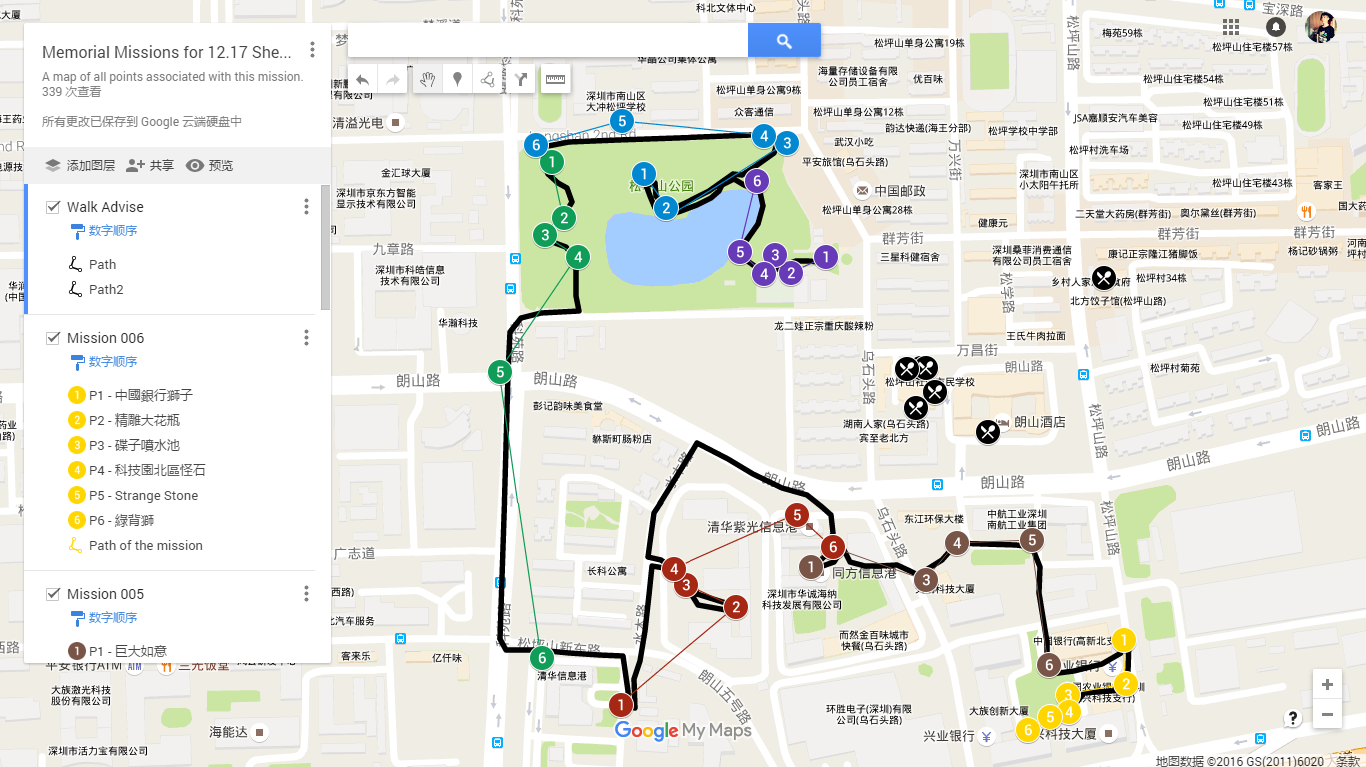
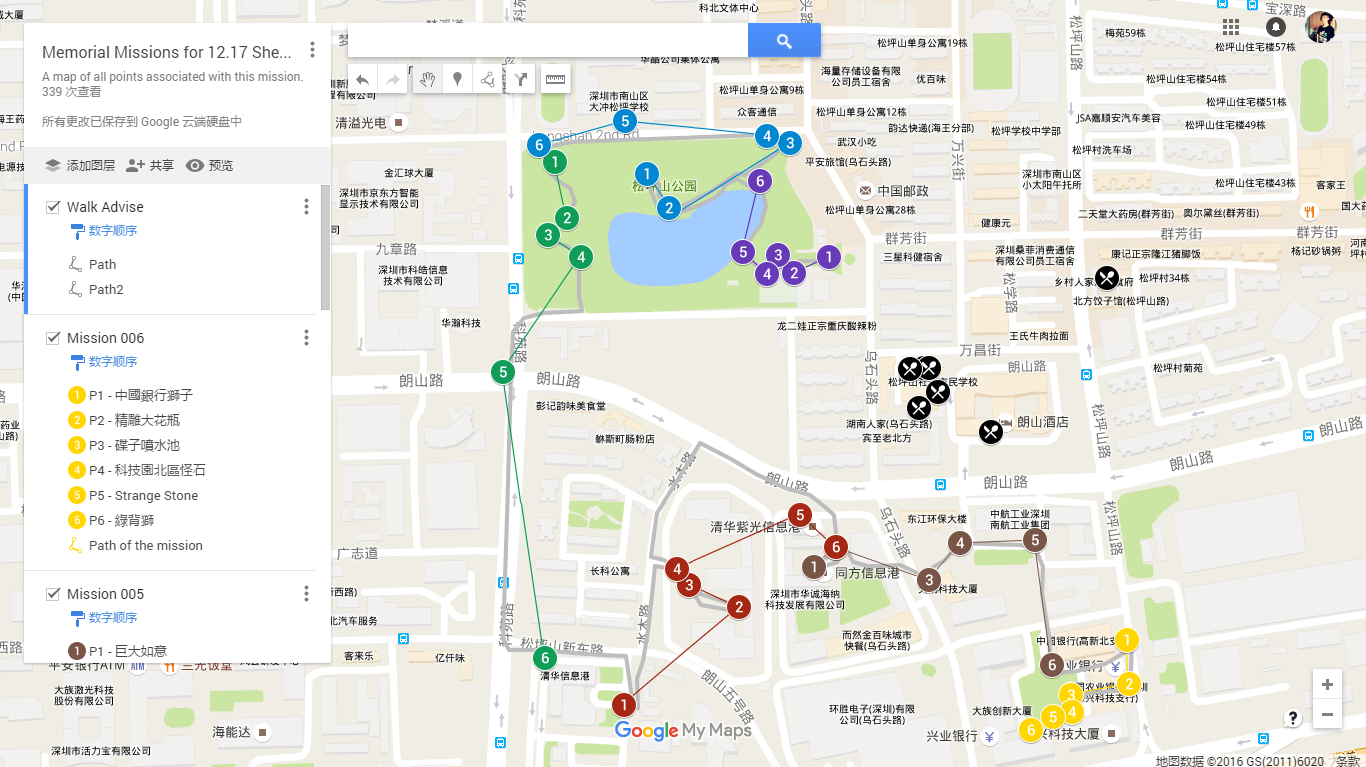
update
Former-commit-id: 97c09610a44800d876f23f53ed63390d545fa8f4
Former-commit-id: 6284c0b6b8ebc809408de0e5b86f65518fcc285b

diff --git a/post/1217_mission_of_shenzhen/1217_mission_of_shenzhen.md b/post/1217_mission_of_shenzhen/1217_mission_of_shenzhen.md
@@ -31,7 +31,7 @@ Though it was a region of villages gathering sort of fishers yesterday, it has n
 <br />
 
 - The last portal in the third task will need you to walk around 300 meters, and if you're really tired with it, you can actually just find any bus to go to the next station of Huahan Science and Technology.
-- Due to the high buildings of three info ports, your GPS info will occur phenomenons of non-accuracy. 
+- Due to the high buildings of three info ports, your GPS info will occur phenomenons of non-accuracy.
 
 
 ### Area
@@ -56,9 +56,9 @@ The mission will go through some places, like the Songpingshan Park, the Qinghua
 
 ### Tasks
 
-任務主要分為六大部分 (詳細請查看[谷歌地圖](https://www.google.com/maps/d/embed?mid=1N9Jhsabsrk3s-FmMt75Q5AvdxQs))，建议行走路线:
+任務主要分為六大部分 (詳細請查看[谷歌地圖](https://www.google.com/maps/d/embed?mid=1N9Jhsabsrk3s-FmMt75Q5AvdxQs))，建议沿著灰色線行走:
 
-The task has been divided into 6 small one (more details in [Google map](https://www.google.com/maps/d/embed?mid=1N9Jhsabsrk3s-FmMt75Q5AvdxQs)), it's advised to walk throughthe black path:
+The task has been divided into 6 small one (more details in [Google map](https://www.google.com/maps/d/embed?mid=1N9Jhsabsrk3s-FmMt75Q5AvdxQs)), it's advised to walk through the grey path:
 
 [![](./walk.png)](https://raw.githubusercontent.com/aleen42/PersonalWiki/master/post/1217_mission_of_shenzhen/walk.png)
 
